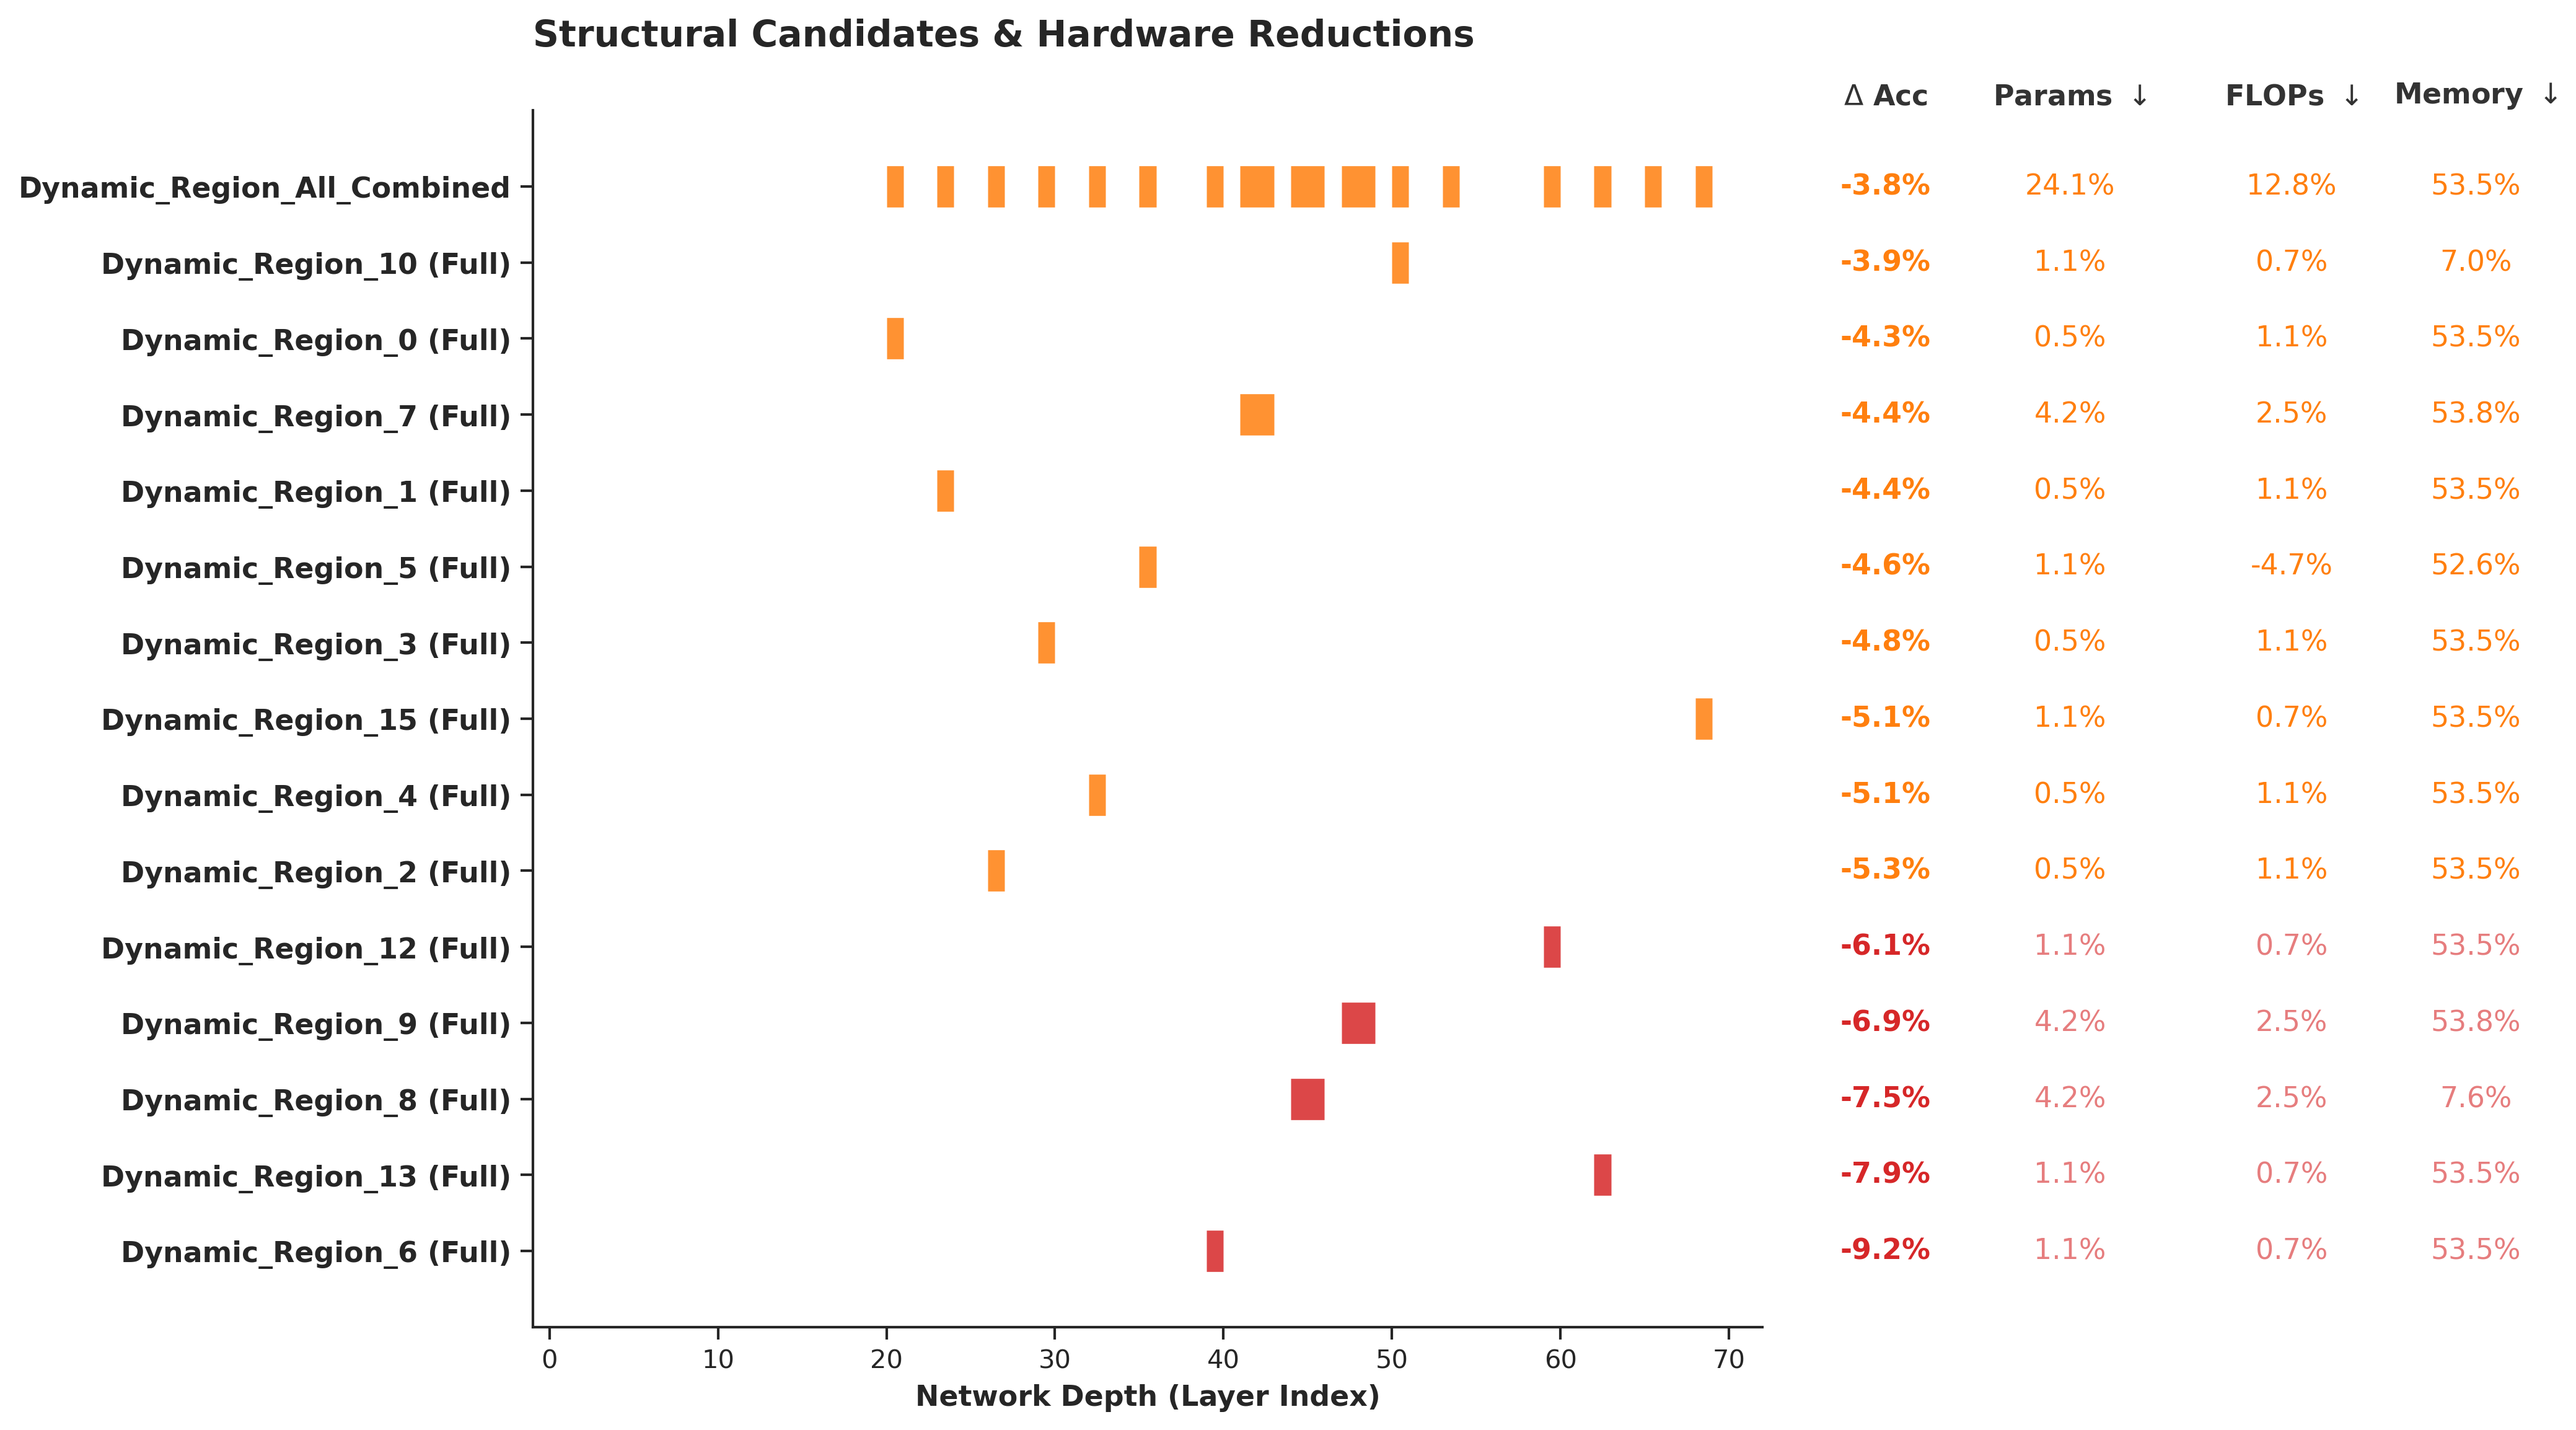
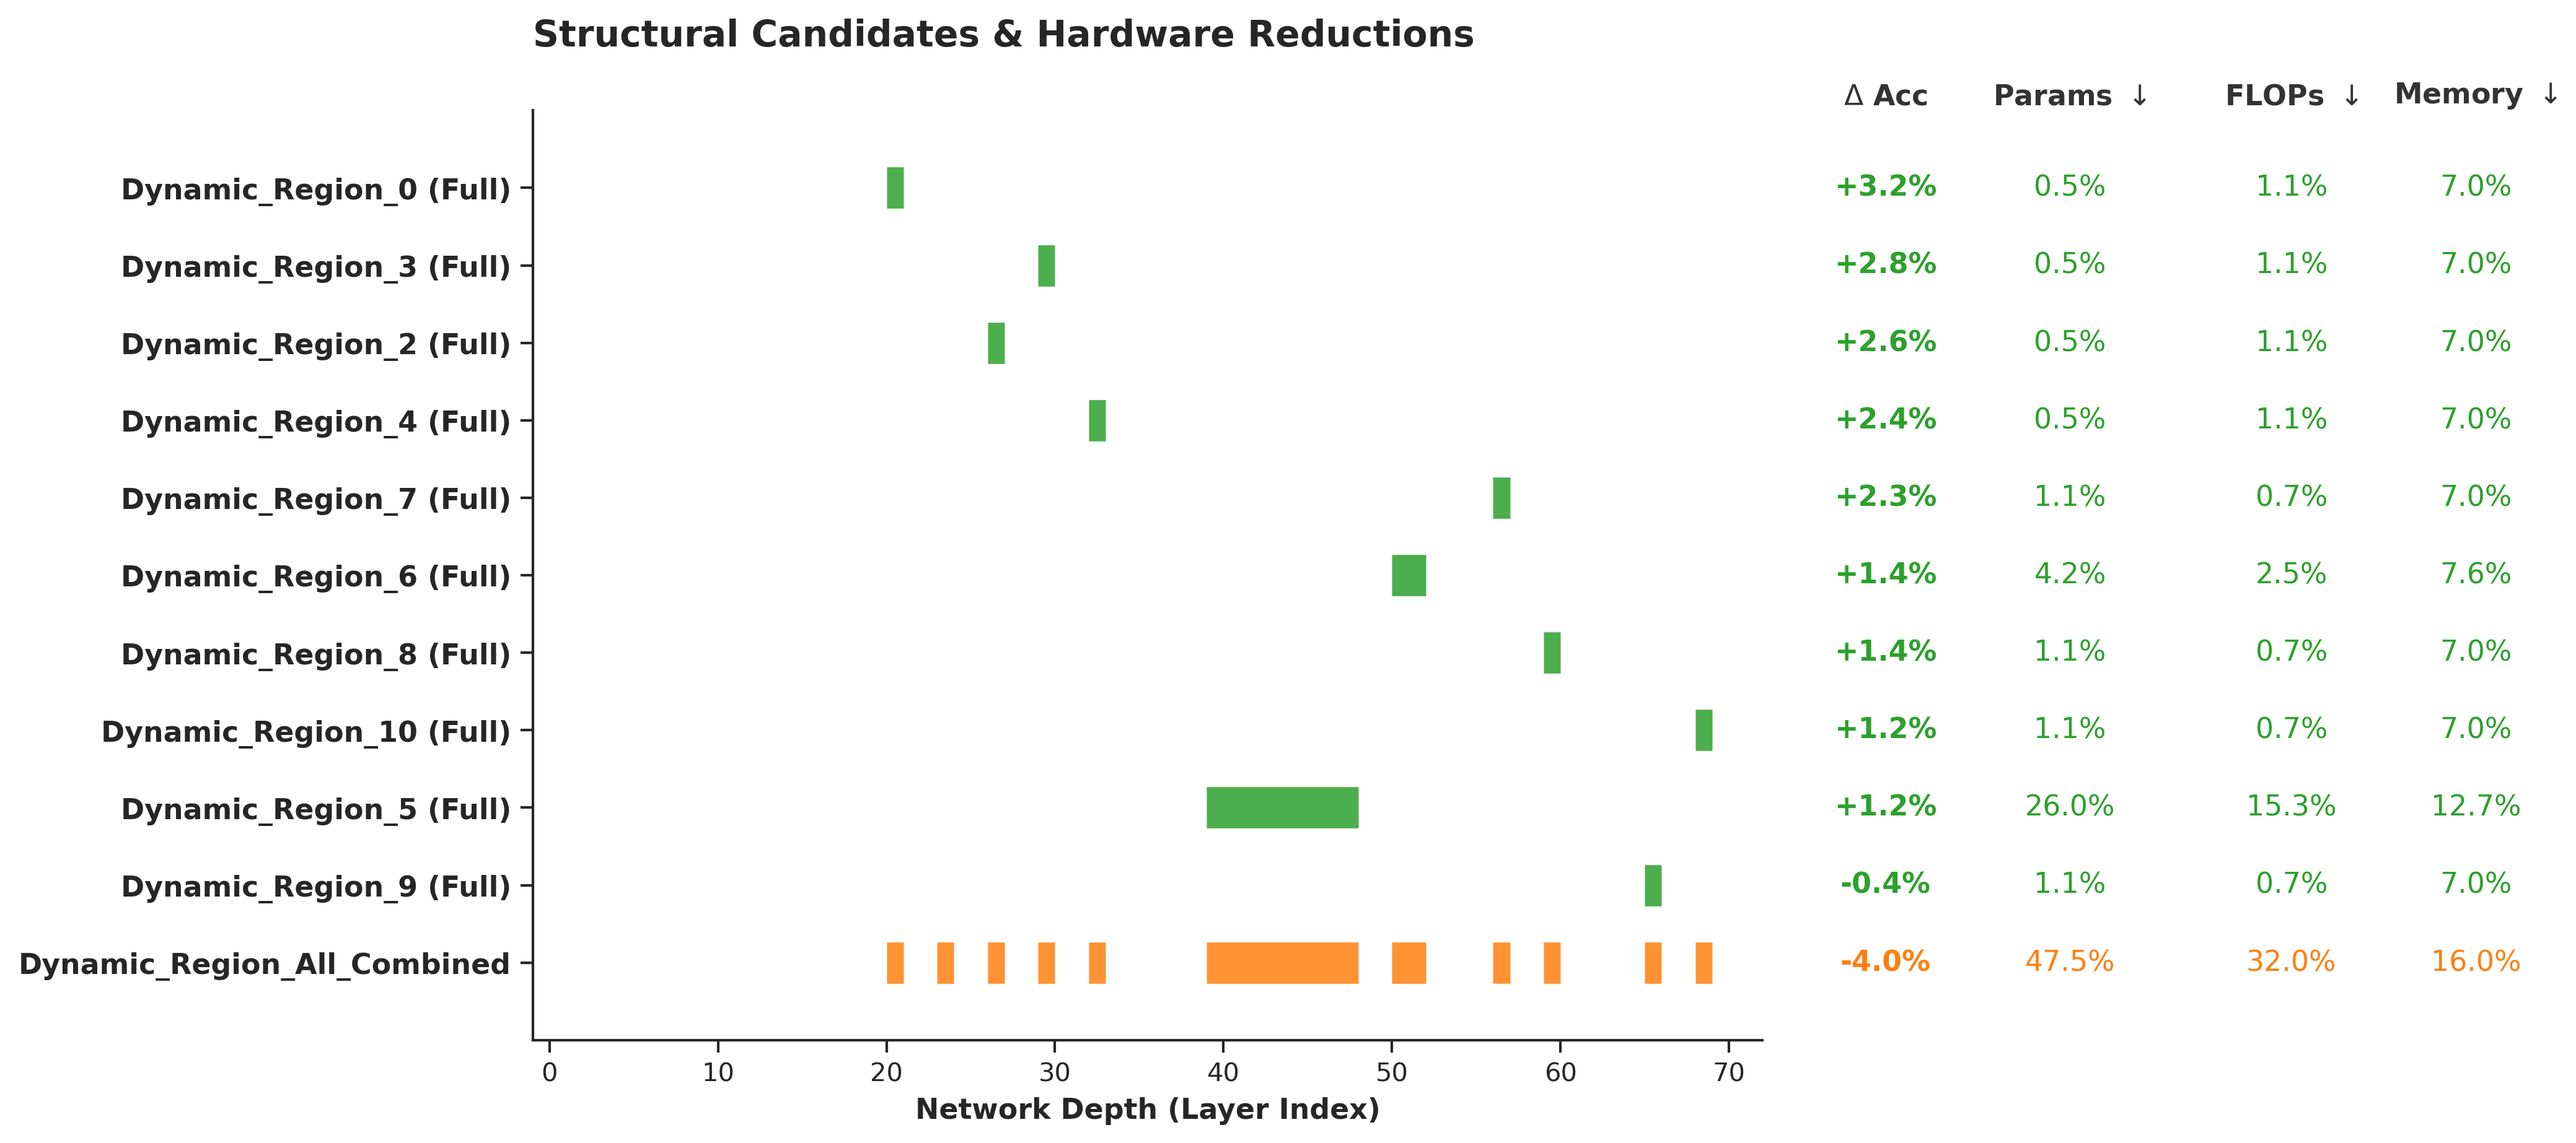
updates

diff --git a/manuscript/Tranfer/figures/hardware_efficiency/RegNetX_400MF_tinyimagenet_all_candidates.tex b/manuscript/Tranfer/figures/hardware_efficiency/RegNetX_400MF_tinyimagenet_all_candidates.tex
@@ -2,18 +2,11 @@
 \toprule
 Candidate Block & Delta Acc (%) & Params Red. (%) & FLOPs Red. (%) & Memory Red. (%) \\
 \midrule
-Dynamic_Region_2 (Full) & -3.64 & 0.48 & 1.11 & 7.00 \\
-Dynamic_Region_0 (Full) & -4.28 & 0.48 & 1.11 & 7.00 \\
-Dynamic_Region_3 (Full) & -5.34 & 0.48 & 1.11 & 7.00 \\
-Dynamic_Region_12 (Full) & -5.71 & 1.14 & 0.67 & 7.00 \\
-Dynamic_Region_8 (Full) & -5.81 & 4.20 & 2.46 & 7.61 \\
-Dynamic_Region_11 (Full) & -6.18 & 1.14 & 0.67 & 7.00 \\
-Dynamic_Region_5 (Full) & -6.55 & 1.14 & -4.73 & 5.16 \\
-Dynamic_Region_9 (Full) & -7.10 & 4.20 & 2.46 & 7.61 \\
-Dynamic_Region_10 (Full) & -7.14 & 1.14 & 0.67 & 7.00 \\
-Dynamic_Region_4 (Full) & -7.15 & 0.48 & 1.11 & 7.00 \\
-Dynamic_Region_1 (Full) & -7.53 & 0.48 & 1.11 & 7.00 \\
-Dynamic_Region_6 (Full) & -7.66 & 1.14 & 0.67 & 7.00 \\
-Dynamic_Region_7 (Full) & -8.61 & 4.20 & 2.46 & 7.61 \\
+Dynamic_Region_2 (Full) & 3.89 & 0.48 & 1.11 & -86.01 \\
+Dynamic_Region_0 (Full) & 3.25 & 0.48 & 1.11 & -86.01 \\
+Dynamic_Region_3 (Full) & 2.19 & 0.48 & 1.11 & -86.01 \\
+Dynamic_Region_4 (Full) & 0.38 & 0.48 & 1.11 & -86.01 \\
+Dynamic_Region_5 (Full) & 0.32 & 18.75 & 11.01 & -77.86 \\
+Dynamic_Region_1 (Full) & -0.00 & 0.48 & 1.11 & -86.01 \\
 \bottomrule
 \end{tabular}

diff --git a/manuscript/Tranfer/figures/hardware_efficiency/InceptionNet_tinyimagenet_all_candidates.tex b/manuscript/Tranfer/figures/hardware_efficiency/InceptionNet_tinyimagenet_all_candidates.tex
@@ -2,8 +2,6 @@
 \toprule
 Candidate Block & Delta Acc (%) & Params Red. (%) & FLOPs Red. (%) & Memory Red. (%) \\
 \midrule
-Dynamic_Region_2 (Full) & 2.02 & 9.52 & 1.81 & -0.51 \\
-Dynamic_Region_All_Combined & 1.92 & 20.10 & 3.83 & -1.28 \\
-Dynamic_Region_3 (Full) & 1.03 & 2.38 & 0.45 & -0.17 \\
+Dynamic_Region_0 (Full) & 4.98 & 11.27 & 8.59 & 5.17 \\
 \bottomrule
 \end{tabular}
